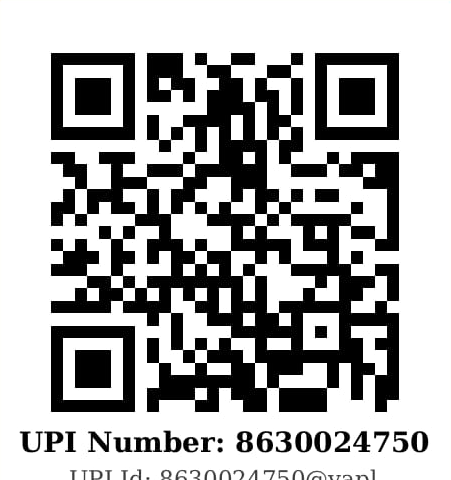
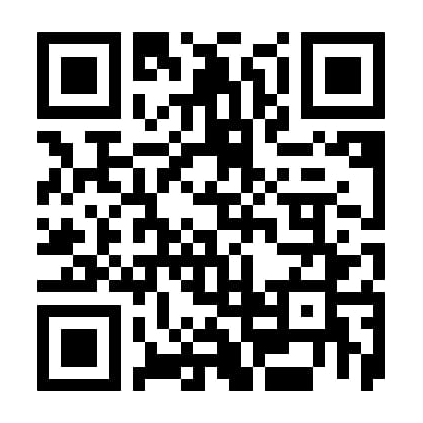
fix(support): remove personal phone number and show clean QR code only

diff --git a/lib/settings/settings_page.dart b/lib/settings/settings_page.dart
@@ -1,5 +1,4 @@
 import 'package:flutter/material.dart';
-import 'package:flutter/services.dart';
 import 'package:url_launcher/url_launcher.dart';
 import 'package:image_picker/image_picker.dart';
 import 'package:package_info_plus/package_info_plus.dart';
@@ -611,100 +610,38 @@ class _SettingsPageState extends State<SettingsPage> {
                     style: TextStyle(color: Colors.white70, fontSize: 12),
                   ),
                   Container(
-                    margin: const EdgeInsets.symmetric(vertical: 16),
-                    padding: const EdgeInsets.all(12),
+                    margin: const EdgeInsets.symmetric(vertical: 18),
+                    padding: const EdgeInsets.all(16),
                     decoration: BoxDecoration(
                       color: Colors.white,
-                      borderRadius: BorderRadius.circular(16),
+                      borderRadius: BorderRadius.circular(20),
                       boxShadow: [
                         BoxShadow(
                           color: const Color(0xFFF0883E).withValues(alpha: 0.25),
-                          blurRadius: 18,
-                          spreadRadius: 1,
+                          blurRadius: 20,
+                          spreadRadius: 2,
                         ),
                       ],
                     ),
                     child: ClipRRect(
-                      borderRadius: BorderRadius.circular(8),
+                      borderRadius: BorderRadius.circular(10),
                       child: Image.asset(
                         'assets/images/support_qr.png',
-                        width: 180,
-                        height: 180,
+                        width: 200,
+                        height: 200,
                         fit: BoxFit.contain,
                       ),
                     ),
                   ),
-                  Container(
-                    decoration: BoxDecoration(
-                      color: const Color(0xFF0D1117),
-                      borderRadius: BorderRadius.circular(14),
-                      border: Border.all(color: const Color(0xFF30363D)),
-                    ),
-                    child: Column(
-                      children: [
-                        ListTile(
-                          dense: true,
-                          visualDensity: VisualDensity.compact,
-                          leading: const Icon(Icons.alternate_email_rounded, size: 18, color: Color(0xFF58A6FF)),
-                          title: const Text('UPI ID', style: TextStyle(color: Colors.white54, fontSize: 10)),
-                          subtitle: const Text(
-                            AppConstants.supportUpiId,
-                            style: TextStyle(
-                              color: Colors.white,
-                              fontSize: 13,
-                              fontFamily: 'monospace',
-                              fontWeight: FontWeight.w600,
-                            ),
-                          ),
-                          trailing: IconButton(
-                            icon: const Icon(Icons.copy_rounded, size: 16, color: Color(0xFF58A6FF)),
-                            tooltip: 'Copy UPI ID',
-                            onPressed: () {
-                              Clipboard.setData(const ClipboardData(text: AppConstants.supportUpiId));
-                              HapticFeedback.lightImpact();
-                              ScaffoldMessenger.of(context).showSnackBar(
-                                const SnackBar(
-                                  content: Text('UPI ID copied to clipboard!'),
-                                  duration: Duration(seconds: 2),
-                                ),
-                              );
-                            },
-                          ),
-                        ),
-                        const Divider(height: 1, color: Color(0xFF21262D)),
-                        ListTile(
-                          dense: true,
-                          visualDensity: VisualDensity.compact,
-                          leading: const Icon(Icons.phone_android_rounded, size: 18, color: Color(0xFF7EE787)),
-                          title: const Text('UPI Number', style: TextStyle(color: Colors.white54, fontSize: 10)),
-                          subtitle: const Text(
-                            AppConstants.supportUpiNumber,
-                            style: TextStyle(
-                              color: Colors.white,
-                              fontSize: 13,
-                              fontFamily: 'monospace',
-                              fontWeight: FontWeight.w600,
-                            ),
-                          ),
-                          trailing: IconButton(
-                            icon: const Icon(Icons.copy_rounded, size: 16, color: Color(0xFF7EE787)),
-                            tooltip: 'Copy UPI Number',
-                            onPressed: () {
-                              Clipboard.setData(const ClipboardData(text: AppConstants.supportUpiNumber));
-                              HapticFeedback.lightImpact();
-                              ScaffoldMessenger.of(context).showSnackBar(
-                                const SnackBar(
-                                  content: Text('UPI Number copied to clipboard!'),
-                                  duration: Duration(seconds: 2),
-                                ),
-                              );
-                            },
-                          ),
-                        ),
-                      ],
+                  const Text(
+                    'Scan with any UPI app to pay',
+                    style: TextStyle(
+                      color: Colors.white70,
+                      fontSize: 12,
+                      fontWeight: FontWeight.w500,
                     ),
                   ),
-                  const SizedBox(height: 14),
+                  const SizedBox(height: 12),
                   Wrap(
                     alignment: WrapAlignment.center,
                     spacing: 6,

diff --git a/test/support_dev_test.dart b/test/support_dev_test.dart
@@ -8,13 +8,11 @@ import 'package:shared_preferences/shared_preferences.dart';
 void main() {
   TestWidgetsFlutterBinding.ensureInitialized();
 
-  test('AppConstants has valid UPI details for support', () {
-    expect(AppConstants.supportUpiId, '8630024750@yapl');
-    expect(AppConstants.supportUpiNumber, '8630024750');
+  test('AppConstants has developer name for support', () {
     expect(AppConstants.supportDevName, 'Aditya');
   });
 
-  testWidgets('SettingsPage shows Support Developer tile and opens modal',
+  testWidgets('SettingsPage shows Support Developer tile and opens modal with clean QR only',
       (tester) async {
     tester.view.physicalSize = const Size(800, 1600);
     tester.view.devicePixelRatio = 1.0;
@@ -49,11 +47,15 @@ void main() {
     await tester.pump(const Duration(milliseconds: 300));
 
     expect(find.text('Buy Aditya a Chai ☕'), findsOneWidget);
-    expect(find.text(AppConstants.supportUpiId), findsOneWidget);
-    expect(find.text(AppConstants.supportUpiNumber), findsOneWidget);
+    expect(find.byType(Image), findsOneWidget);
+    expect(find.text('Scan with any UPI app to pay'), findsOneWidget);
     expect(find.text('Google Pay'), findsOneWidget);
     expect(find.text('PhonePe'), findsOneWidget);
     expect(find.text('Paytm'), findsOneWidget);
+
+    // Ensure personal phone number and raw UPI ID are not exposed as text
+    expect(find.textContaining('8630024750'), findsNothing);
+    expect(find.textContaining('@yapl'), findsNothing);
 
     final closeButton = find.byIcon(Icons.close_rounded);
     expect(closeButton, findsOneWidget);

diff --git a/lib/core/constants.dart b/lib/core/constants.dart
@@ -45,7 +45,5 @@ class AppConstants {
   static const androidShPath = '/system/bin/sh';
   static const posixBashPath = '/bin/bash';
 
-  static const supportUpiId = '8630024750@yapl';
-  static const supportUpiNumber = '8630024750';
   static const supportDevName = 'Aditya';
 }
